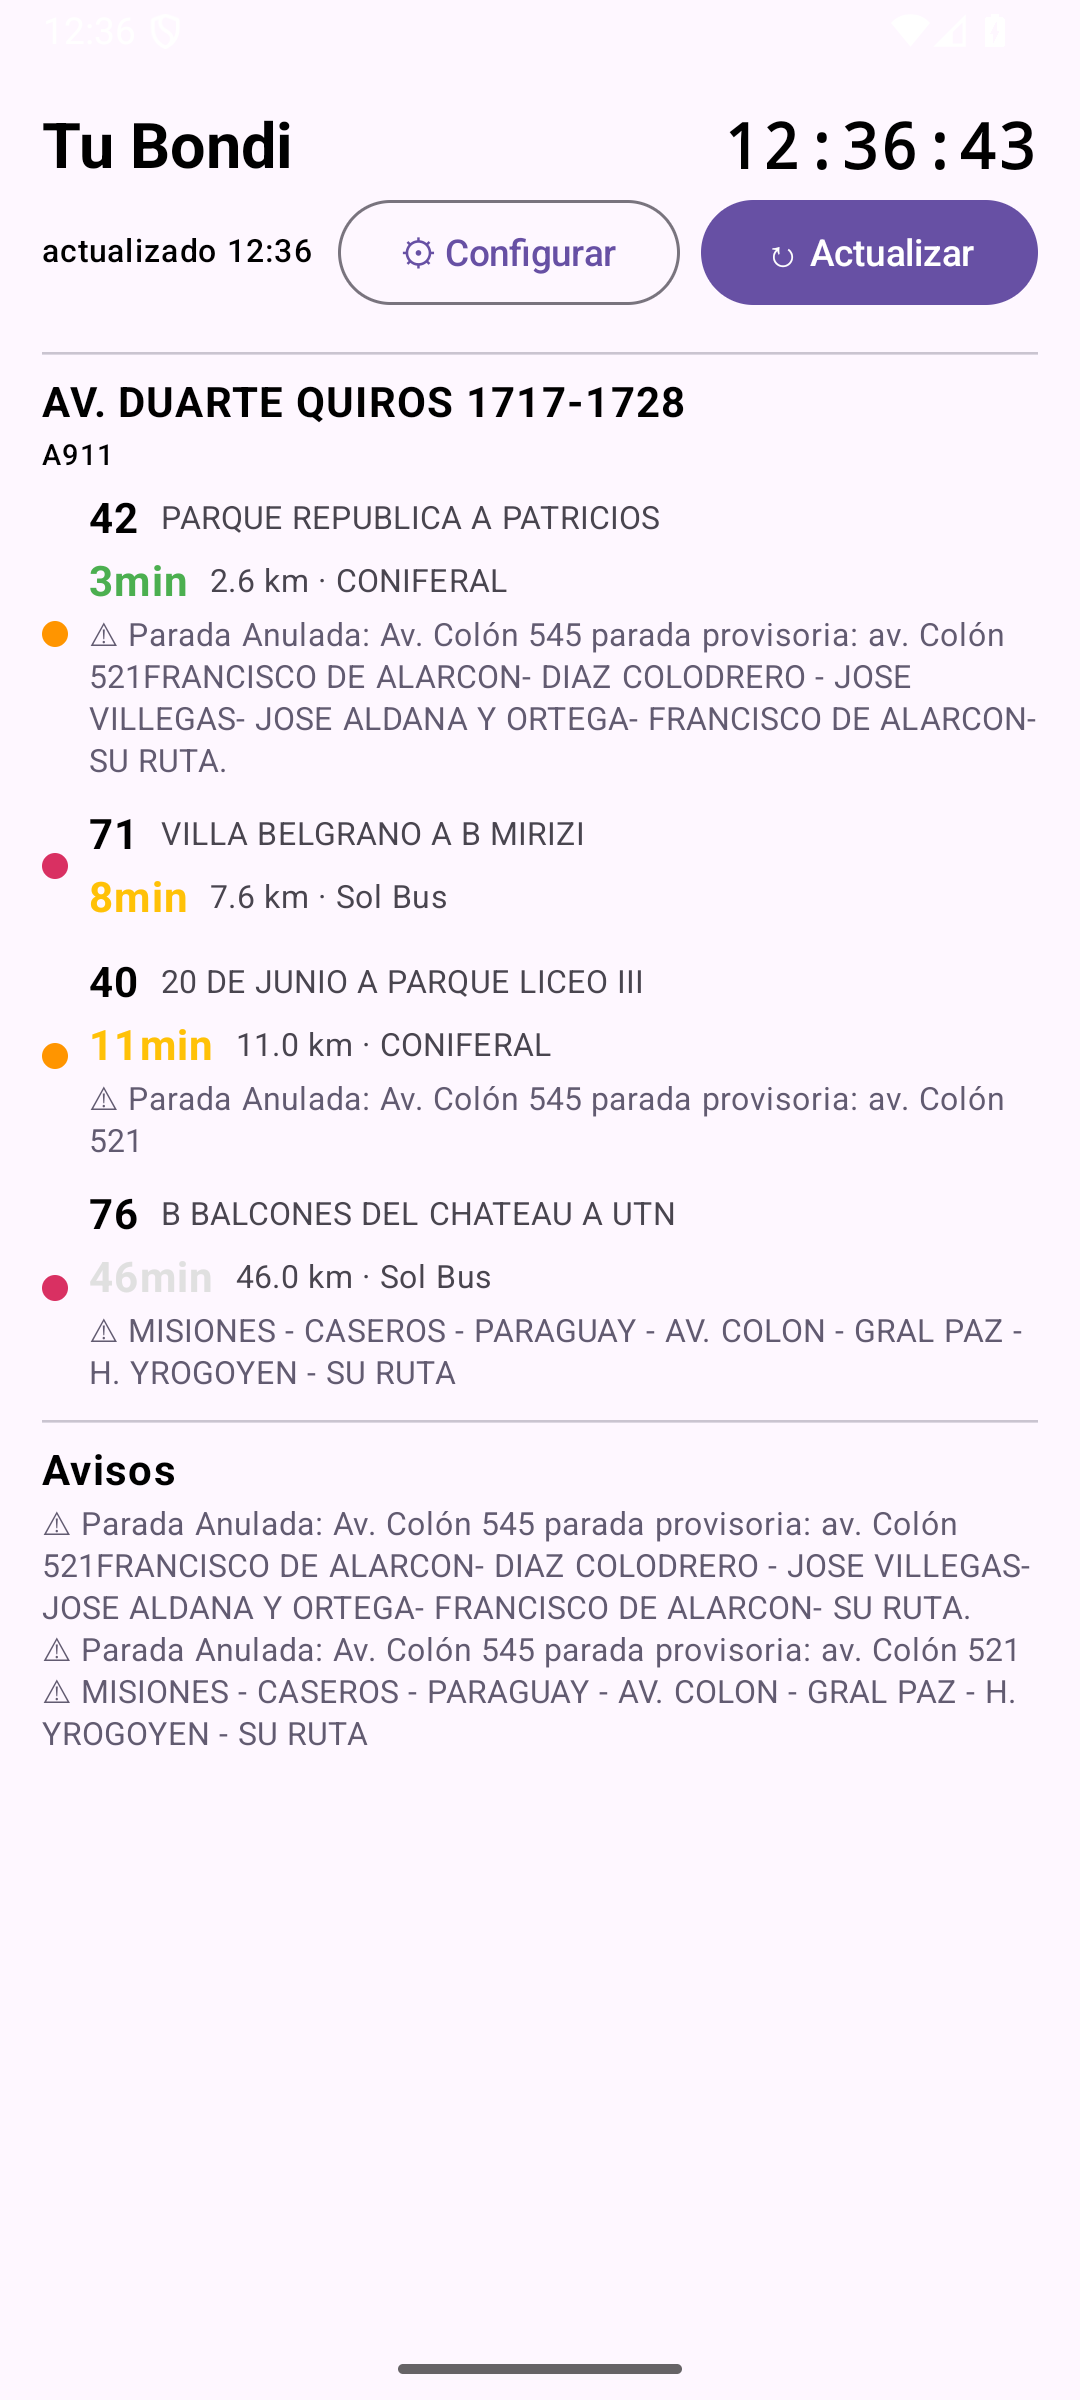
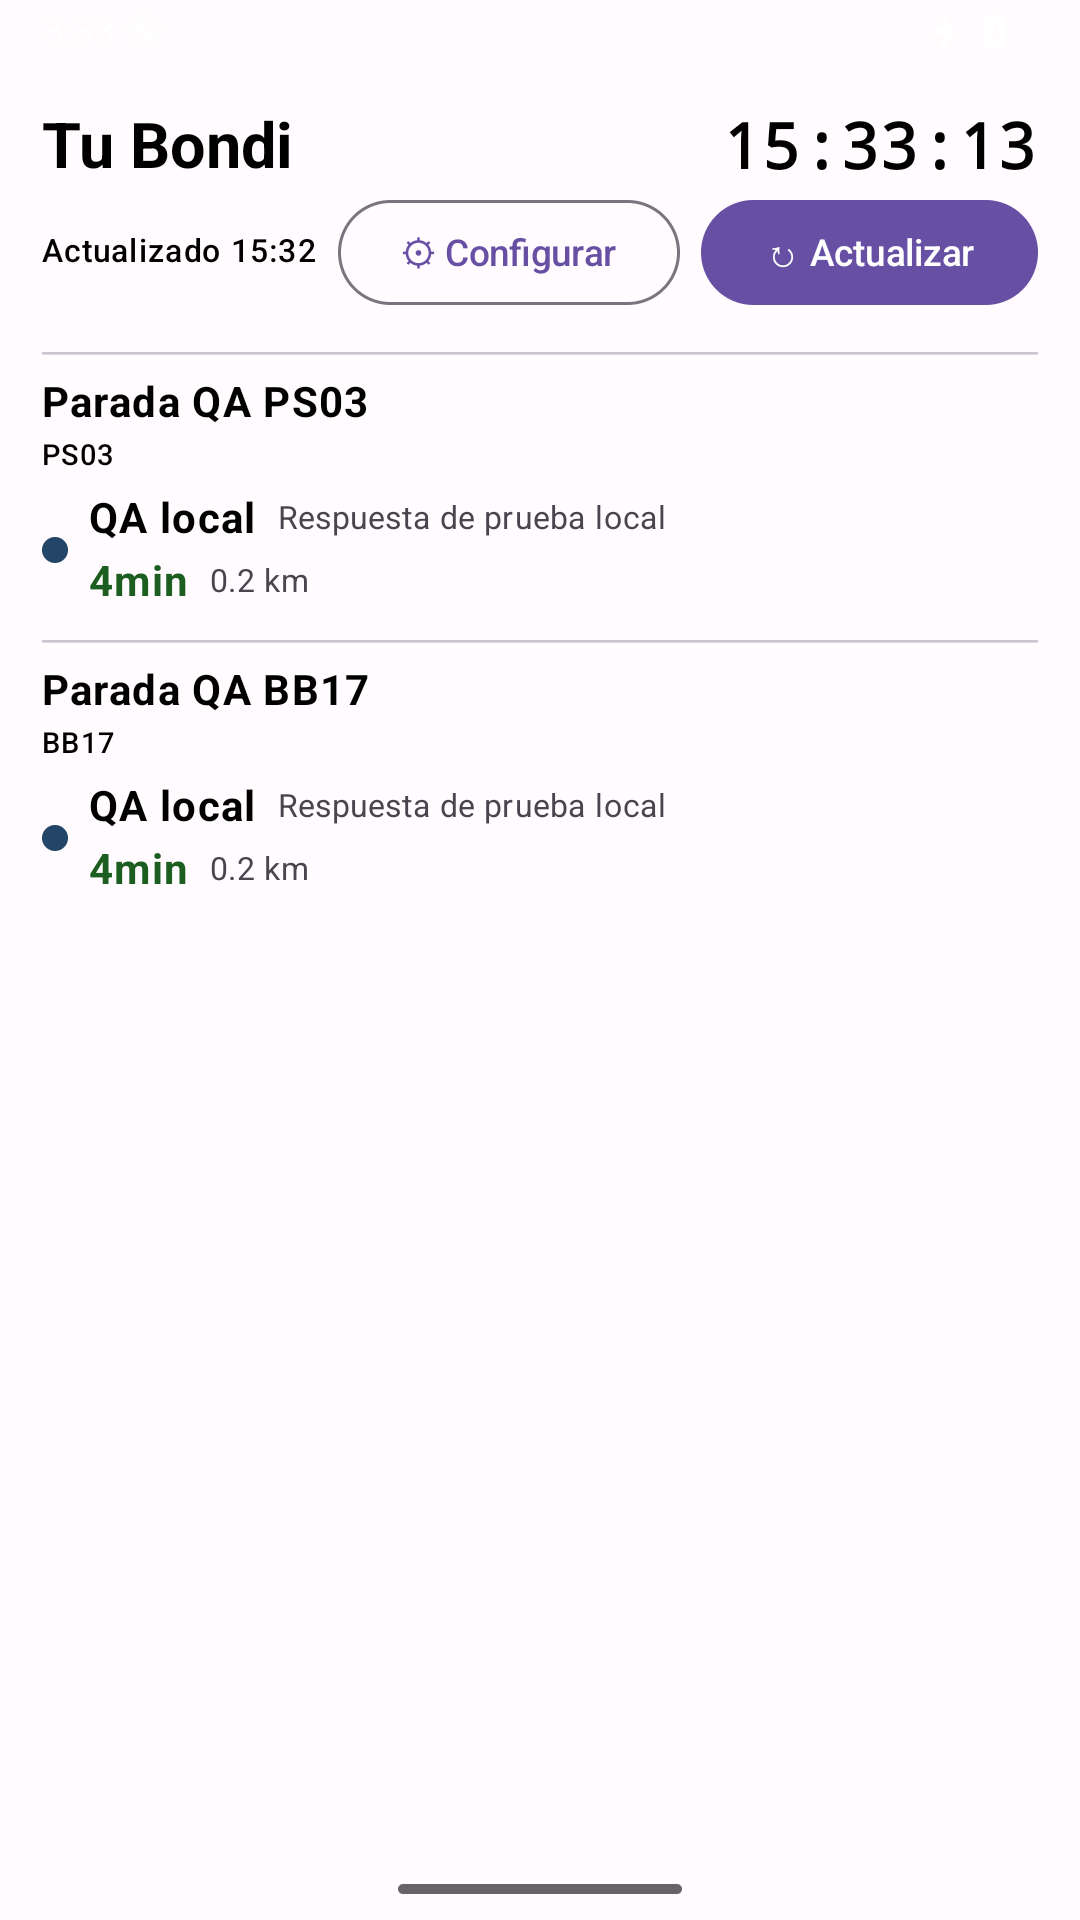
docs: refresh product-first README screenshots

diff --git a/README.md b/README.md
@@ -1,26 +1,26 @@
 # Tu Bondi Widget
 
-**Los próximos colectivos de Córdoba, directamente en tu pantalla de inicio.**
+**Consultá los próximos colectivos de Córdoba desde la pantalla de inicio.**
 
-Elegí tus paradas y consultá arribos, destinos y avisos sin abrir el navegador. Cada widget tiene su propia configuración.
+Elegí tus paradas y mirá arribos, destinos y avisos sin abrir otra app. Cada widget conserva su propia configuración.
 
 <p align="center">
-  <img src="docs/images/widget.png" alt="Widget de Tu Bondi en la pantalla de inicio con próximos arribos" width="280">
-  <img src="docs/images/arribos.png" alt="Pantalla completa de arribos y avisos por parada" width="280">
+  <img src="docs/images/widget.png" alt="Widget de Tu Bondi con dos paradas y arribos de prueba locales" width="260">
+  <img src="docs/images/arribos.png" alt="Pantalla completa con arribos de prueba locales para dos paradas" width="260">
 </p>
 
-<p align="center"><sub>Capturas reales del emulador Android; los arribos y avisos dependen del servicio.</sub></p>
+<p align="center"><sub>Capturas reales en un emulador Android API 36. Los arribos son respuestas locales de QA, no información en vivo; la disponibilidad y precisión reales dependen del servicio de TuBondi.</sub></p>
 
-## A mano cuando lo necesitás
+## Qué podés hacer
 
-- **Tus paradas.** Buscá por código, calle o barrio; si no aparece, ingresá el código exacto manualmente. Al elegir paradas por ruta podés filtrar líneas cuando están disponibles.
-- **Información de un vistazo.** Consultá tiempo estimado, destino, distancia y avisos publicados por el servicio.
-- **Más de un widget.** Configurá instancias independientes para distintas paradas.
-- **Alertas opcionales.** Activá notificaciones de arribos próximos y definí el umbral de tiempo.
-- **Sin conexión.** El buscador utiliza un catálogo incluido y el widget conserva todos los datos del último refresh exitoso si una actualización falla o supera su presupuesto; muestra el motivo y la hora de esos datos.
-- **Estados y accesibilidad.** La actualización manual informa “Actualizando…”; si falla, tanto el widget como la pantalla completa retienen los arribos y la hora del último éxito y ofrecen reintentar. Alto contraste se aplica a ambas vistas y los controles exponen etiquetas y estados semánticos para lectores de pantalla.
+- **Consultar desde el inicio.** El widget muestra tiempos estimados, destinos, distancias y avisos.
+- **Elegir tus paradas.** Buscá por código, calle o barrio; si no encontrás una parada, ingresá su código exacto manualmente.
+- **Separar contextos.** Cada widget puede tener su propia selección de paradas y líneas.
+- **Configurar alertas.** Activá notificaciones de arribos próximos y elegí el umbral de tiempo.
+- **Seguir con los últimos datos.** Si falla una actualización, el widget conserva los arribos del último refresh exitoso e indica su hora y el motivo del fallo.
+- **Ajustar la lectura.** El modo de alto contraste se aplica al widget y a la pantalla completa; los controles exponen etiquetas y estados semánticos.
 
-## Primeros pasos
+## Instalación y primeros pasos
 
 La app requiere **Android 8.0 (API 26) o superior**. Para compilar necesitás Android Studio, Android SDK 35 y JDK 17 o superior.
 
@@ -30,24 +30,28 @@ cd Tu-Bondi-Tracker-Widget
 ./gradlew assembleDebug
 ```
 
-En Windows usá `gradlew.bat assembleDebug`. El APK de depuración queda en `app/build/outputs/apk/debug/app-debug.apk`; instalalo desde Android Studio o con `adb install -r app/build/outputs/apk/debug/app-debug.apk`.
+En Windows usá `gradlew.bat assembleDebug`. El APK queda en `app/build/outputs/apk/debug/app-debug.apk`; instalalo desde Android Studio o con:
+
+```bash
+adb install -r app/build/outputs/apk/debug/app-debug.apk
+```
 
 1. Mantené presionada la pantalla de inicio y agregá **TuBondi Widget** desde el selector de widgets.
-2. Buscá una parada o agregá su código exacto manualmente; si elegís por ruta, podés seleccionar líneas específicas.
-3. Ajustá la frecuencia automática (15–60 min) y las alertas, y tocá **Guardar**.
-4. Usá **Actualizar** para pedir datos nuevos o tocá el encabezado para abrir la pantalla completa.
+2. Buscá una parada o ingresá su código exacto. También podés elegir paradas desde las rutas disponibles.
+3. Configurá la frecuencia de actualización (15–60 min), las alertas y tocá **Guardar**.
+4. Tocá **Actualizar** para pedir datos nuevos o el encabezado para abrir la pantalla completa.
 
-<p align="center"><img src="docs/images/configuracion.png" alt="Configuración del widget con buscador de paradas y rutas disponibles" width="280"></p>
+<p align="center"><img src="docs/images/configuracion.png" alt="Configuración con el catálogo offline de 160 rutas y opciones para agregar paradas" width="260"></p>
 
-## Actualizaciones y notificaciones
+## Datos y actualizaciones
 
-El refresco manual consulta el servicio cuando lo solicitás. El refresco periódico usa WorkManager: Android establece un **mínimo de 15 minutos** y puede demorar la ejecución según batería y condiciones del dispositivo. La disponibilidad y la precisión de los arribos dependen de la API de TuBondi.
+La actualización manual consulta el servicio cuando la solicitás. El refresco periódico usa WorkManager: Android establece un **mínimo de 15 minutos** y puede demorar la ejecución según la batería y las condiciones del dispositivo.
 
-El selector permite recorrer todas las rutas disponibles. El catálogo de paradas está incluido en la app y no se actualiza automáticamente; existe una fuente municipal candidata, pero su antigüedad, equivalencia de códigos y condiciones de uso no están verificadas. Hasta entonces, podés ingresar manualmente el código exacto de una parada ausente; agregarlo no consulta el servicio. Las líneas y rutas se consultan al abrir la configuración, con un respaldo incluido.
+Las líneas y rutas se consultan al abrir la configuración; si la consulta falla, la app usa un respaldo incluido. El buscador de paradas usa un catálogo local incluido en la app. Ese catálogo no se descarga ni actualiza automáticamente: existe una fuente municipal candidata, pero su antigüedad, equivalencia de códigos y condiciones de uso no están verificadas. Mientras tanto, podés ingresar manualmente el código exacto de una parada ausente; agregarlo no consulta el servicio.
 
 En Android 13 o posterior, las notificaciones requieren permiso. Si lo denegás, podés habilitarlo desde los ajustes de Android. El canal permite silenciar los avisos durante una hora; la app evita repetir una alerta para la misma parada y línea durante diez minutos.
 
-## Desarrollo
+## Desarrollo y QA
 
 El widget está construido con Kotlin y Jetpack Glance; la configuración y la pantalla completa usan Compose. DataStore conserva la configuración por widget, WorkManager programa las actualizaciones y OkHttp consulta el servicio.
 
@@ -55,15 +59,31 @@ El widget está construido con Kotlin y Jetpack Glance; la configuración y la p
 ./gradlew testDebugUnitTest
 ```
 
-Las pruebas unitarias usan fixtures y respuestas simuladas; no necesitan acceso a la API. Para ejecutar y verificar el widget completo, instalá el APK en un dispositivo o emulador y agregalo al launcher.
+Las pruebas unitarias usan fixtures y respuestas simuladas; no necesitan acceso a la API. Para probar el widget completo, instalá el APK en un dispositivo o emulador y agregalo al launcher.
 
-El build debug usa la URL HTTPS de producción por defecto. Para QA aislado, iniciá `python tools/mock_tubondi_api.py --mode success`, conectá el AVD con `adb reverse tcp:8765 tcp:8765` y compilá debug con `-PtubondiApiBaseUrl=http://127.0.0.1:8765`; el stub escucha exclusivamente en loopback. La variante release fija la URL HTTPS del servicio.
+El build debug usa la URL HTTPS de producción por defecto. Para QA aislado, iniciá el stub local, conectá el AVD con `adb reverse` y compilá debug con el override local:
+
+```bash
+python tools/mock_tubondi_api.py --mode success
+adb reverse tcp:8765 tcp:8765
+./gradlew assembleDebug -PtubondiApiBaseUrl=http://127.0.0.1:8765
+```
+
+El stub escucha exclusivamente en loopback y no contacta el servicio de producción. La variante release fija la URL HTTPS del servicio.
 
 Los flows `c4-configure-*` parten de una instancia existente (ID 4 o 5) visible en launcher y abren su configuración mediante el control accesible `Configurar widget`. Antes de guardar en modo `success`, registrá `arrivals` y `responses408` con `Invoke-RestMethod 'http://127.0.0.1:8765/__control/stats'`; luego verificá que `arrivals` aumente y `responses408` no cambie antes de asumir que la caché quedó lista. Los contadores son acumulativos; para repetir QA no exijas `responses408=0` si ya se probó un error.
 
-Para `*-408`, con la caché lista, fijá modo y demora con `Invoke-RestMethod 'http://127.0.0.1:8765/__control/mode?value=408'` y `Invoke-RestMethod 'http://127.0.0.1:8765/__control/delay?ms=8000'`; ejecutá `maestro test --udid emulator-5564 flows/c4-fullscreen-408.yaml flows/c4-launcher-408.yaml`; después restaurá `mode?value=success` y `delay?ms=0`.
+Para `*-408`, con la caché lista, fijá el modo y la demora con estos controles del stub:
 
-La sesión de la API se mantiene en memoria mientras vive el proceso. Las preferencias se guardan localmente; al quitar una instancia se cancelan sus trabajos asociados y se purga su configuración sin afectar otros widgets. No se registran cookies en los logs HTTP configurados por defecto.
+```powershell
+Invoke-RestMethod 'http://127.0.0.1:8765/__control/mode?value=408'
+Invoke-RestMethod 'http://127.0.0.1:8765/__control/delay?ms=8000'
+maestro test --udid emulator-5564 flows/c4-fullscreen-408.yaml flows/c4-launcher-408.yaml
+Invoke-RestMethod 'http://127.0.0.1:8765/__control/mode?value=success'
+Invoke-RestMethod 'http://127.0.0.1:8765/__control/delay?ms=0'
+```
+
+La sesión de la API se mantiene en memoria mientras vive el proceso. Las preferencias se guardan localmente; al quitar una instancia se cancelan sus trabajos asociados y se purga su configuración sin afectar otros widgets. Los logs HTTP configurados por defecto no registran cookies.
 
 ## Referencias
 
